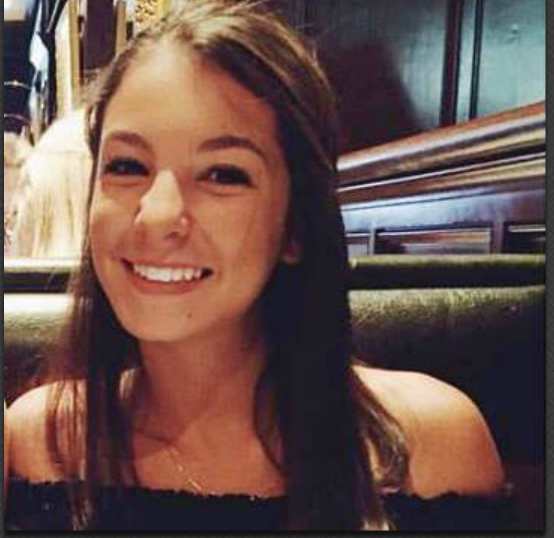
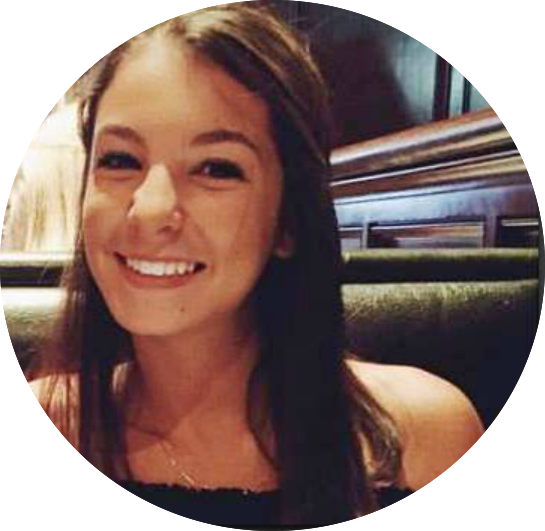
uff

diff --git a/about.html b/about.html
@@ -19,6 +19,9 @@ h1{
 	text-align: center;
 	color:	white; 
 }
+#shruti {
+
+}
 
 
 
@@ -39,20 +42,50 @@ h1{
     <h1>OUR STORY</h1> 
   
   </div>
+<div class="row">
+
+<div class="col-sm-2">
+<img id="shruti"src="shruti.png" height="100" width="100">
+<br>
+</div>
+<div class="col-sm-10">
 <h3>Shruti Krishnamachari</h3>
 <p>Shruti is going to be a juinor at Newton North High School. In Shruti's spare time she enjoys dancing at Boston Ballet, and traveling. She is funny,kind, and enthusiastic about learning. She is great with the technical things and also has a love for formatting. She brings an amazing energy to the group.</p>
-<img src="shruti.jpg">
+<br>
+</div>
+
+<div class="col-sm-2">
+<img id="esther" src="estherpropic.png" height="100" width="100">
+<br>
+</div>
+<div class="col-sm-10">
 <h3> Esther Itkis</h3>
 <p> Esther is going to be a juinor at Newton North High School. In Esther's free time she likes to play guitar, ukulele, and piano. She also enjoys writing music. She is intelligent, humorous, and innovative; we are grateful and pleased to have her on our team.</p>
-<img src="estherpropic.jpg">
+<br>
+</div>
 
+<div class="col-sm-2">
+<img id="isabel" src="isabel.png" height="100" width="100">
+<br>
+</div>
+<div class="col-sm-10">
 <h3>Isabel Bulman</h3>
 <p>Isabel is going to be a juinor at Newton South High School. In Isabel's spare time she enjoys catching pokémon, drawing, and jamming out to music. She is a soft spoken innovative mind that always tackels obstacles that are in her way. We are so blessed to have her with us.</p>
-<img src="isabel.png">
+<br>
+</div>
+
+<div class="col-sm-2">
+<img id="antonia" src="antonia.png" height="100" width="100">
+<br>
+</div>
+<div class="col-sm-10">
 <h3>Antonia Martins</h3>
 <p>Antonia is going to be a juinor at Pingree School. In Antonia's free time she enjoys long walks with her dogs, watching documentaries, and having a good laugh with friends and familiy. She is an enthusiastic, loveable, and passionate. We are so grateful to have this wonderful soul on our team. </p>
-<img src="antonia.png">
+<br>
 </div>
+</div>
+</div>
+
 
 </body>
 </html>
